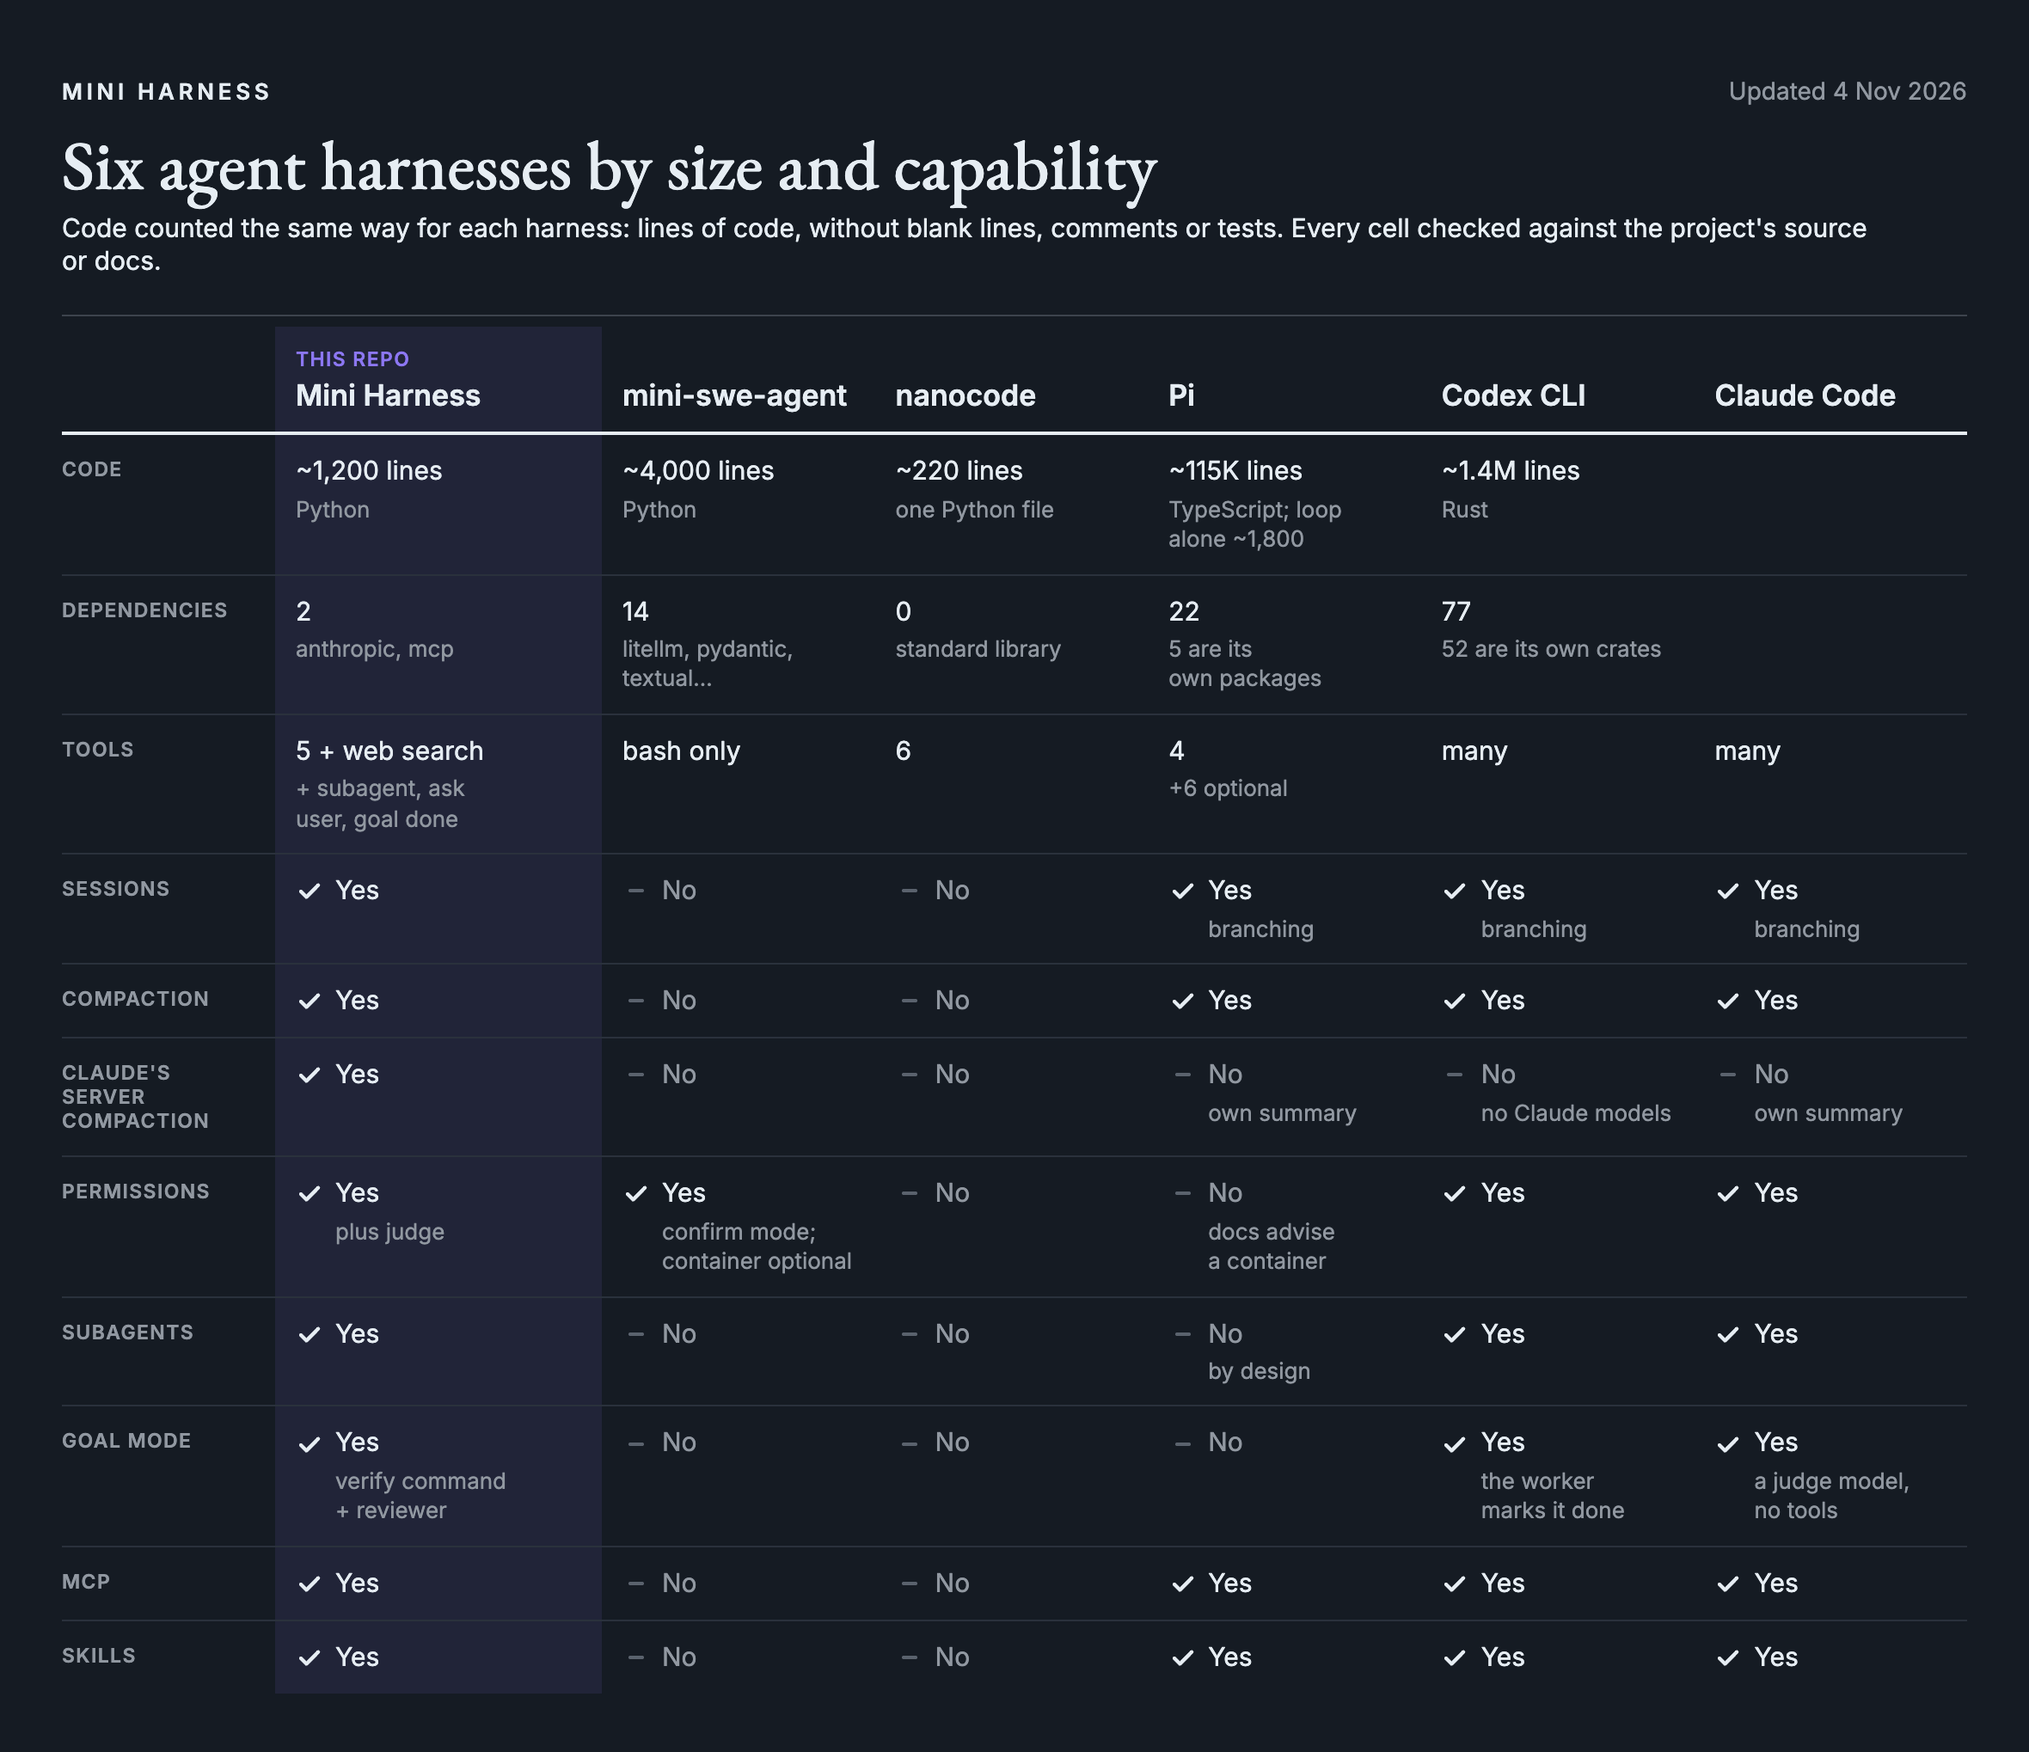
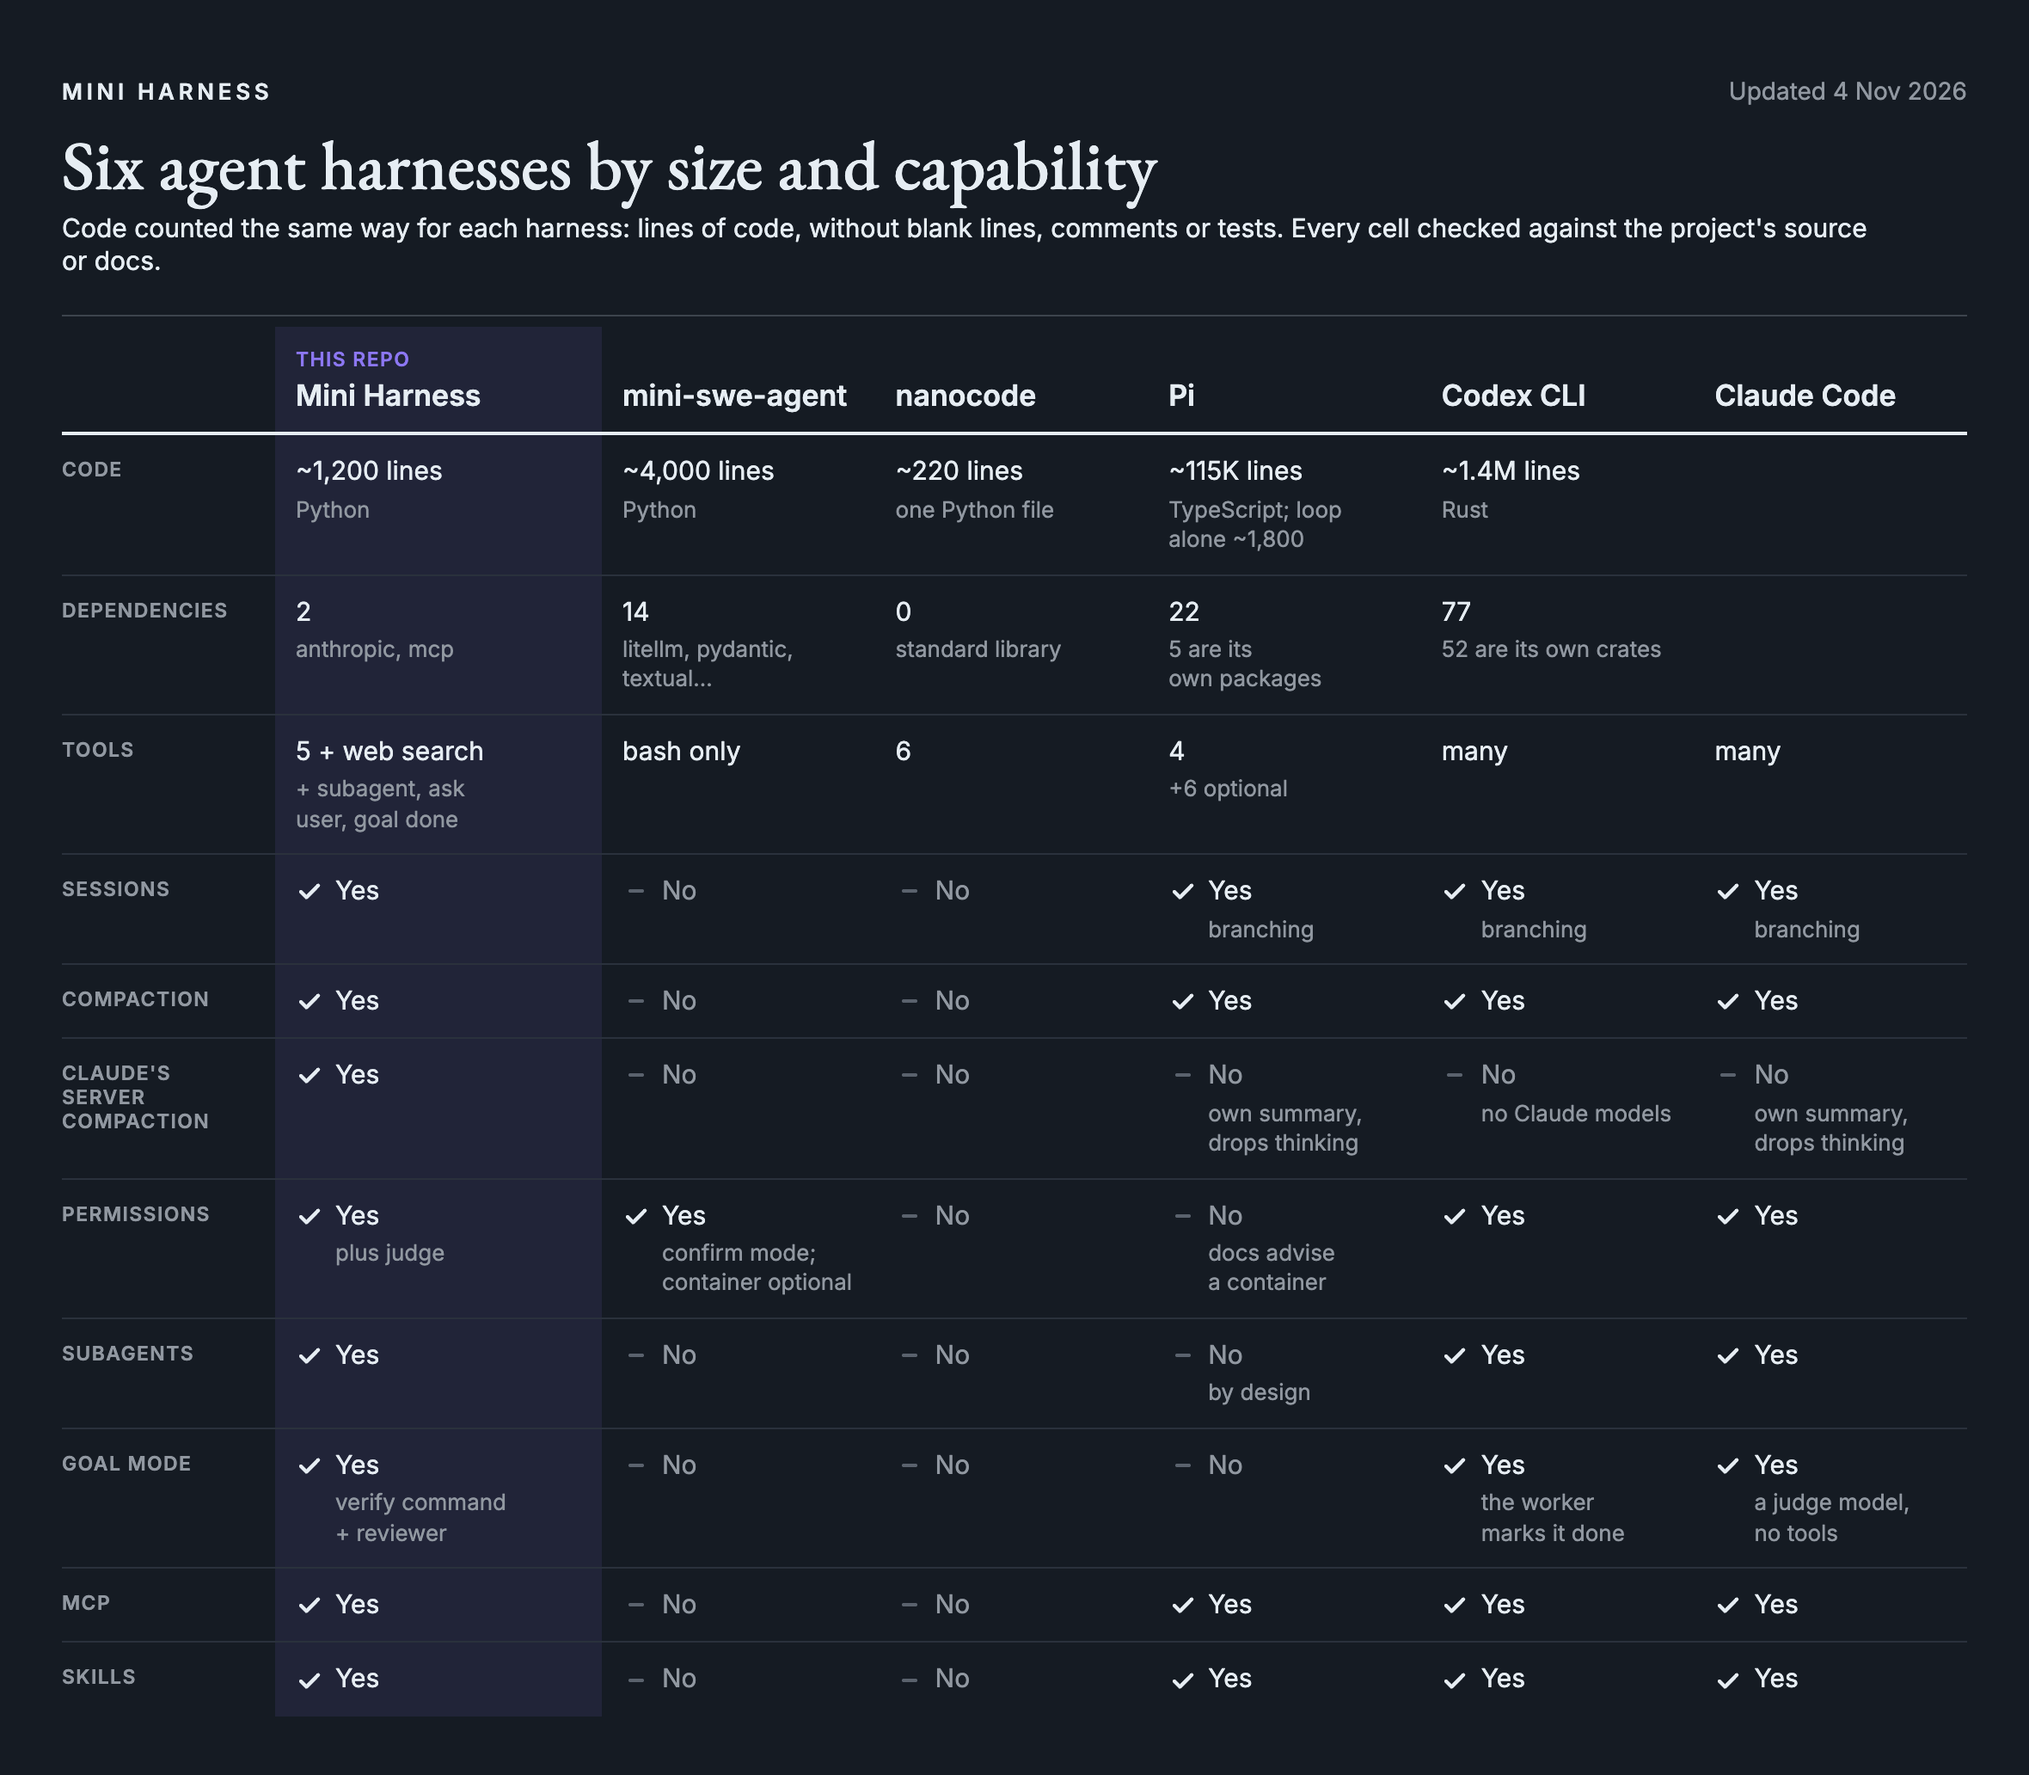
Comparison: Pi and Claude Code compact with their own summary, which drops thinking

diff --git a/README.md b/README.md
@@ -36,7 +36,7 @@ As of November 2026. Pi is built to be extended; mini is built to be read.
 | Tools | 5 + web search (+ subagent, ask user, goal done) | bash only | 6 | 4 (+6 optional) | many | many |
 | Sessions | yes | no | no | yes, branching | yes, branching | yes, branching |
 | Compaction | yes | no | no | yes | yes | yes |
-| Claude's server compaction | yes | no | no | no, own summary | no, no Claude models | no, own summary |
+| Claude's server compaction | yes | no | no | no, own summary, drops thinking | no, no Claude models | no, own summary, drops thinking |
 | Permissions | yes, plus judge | yes, confirm mode; container optional | no | no, docs advise a container | yes | yes |
 | Subagents | yes | no | no | no, by design | yes | yes |
 | Goal mode | yes, verify command + reviewer | no | no | no | yes, the worker marks it done | yes, a judge model, no tools |
